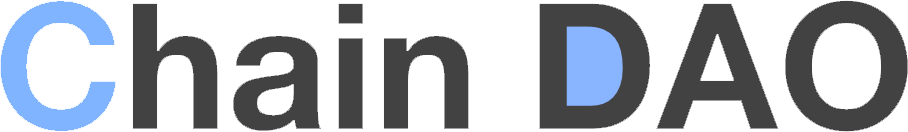
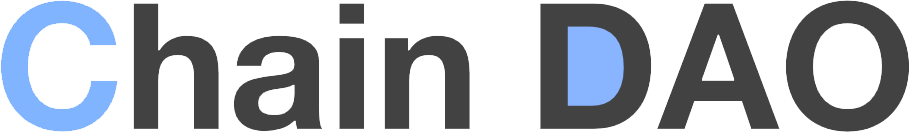
--

diff --git a/css/main.css b/css/main.css
@@ -14,13 +14,15 @@ body {
 
 .main img {
     margin-top: 260px;
-    width: 454px;
+    /*width: 454px;*/
+    width: 908px;
     margin-bottom: 10px;
 }
 
 .main p, .main a {
     font-family: HelveticaNeue;
-    font-size: 16px;
+    /*font-size: 16px;*/
+    font-size: 26px;
     color: #727272;
     text-decoration: none;
     margin: 50px auto;
